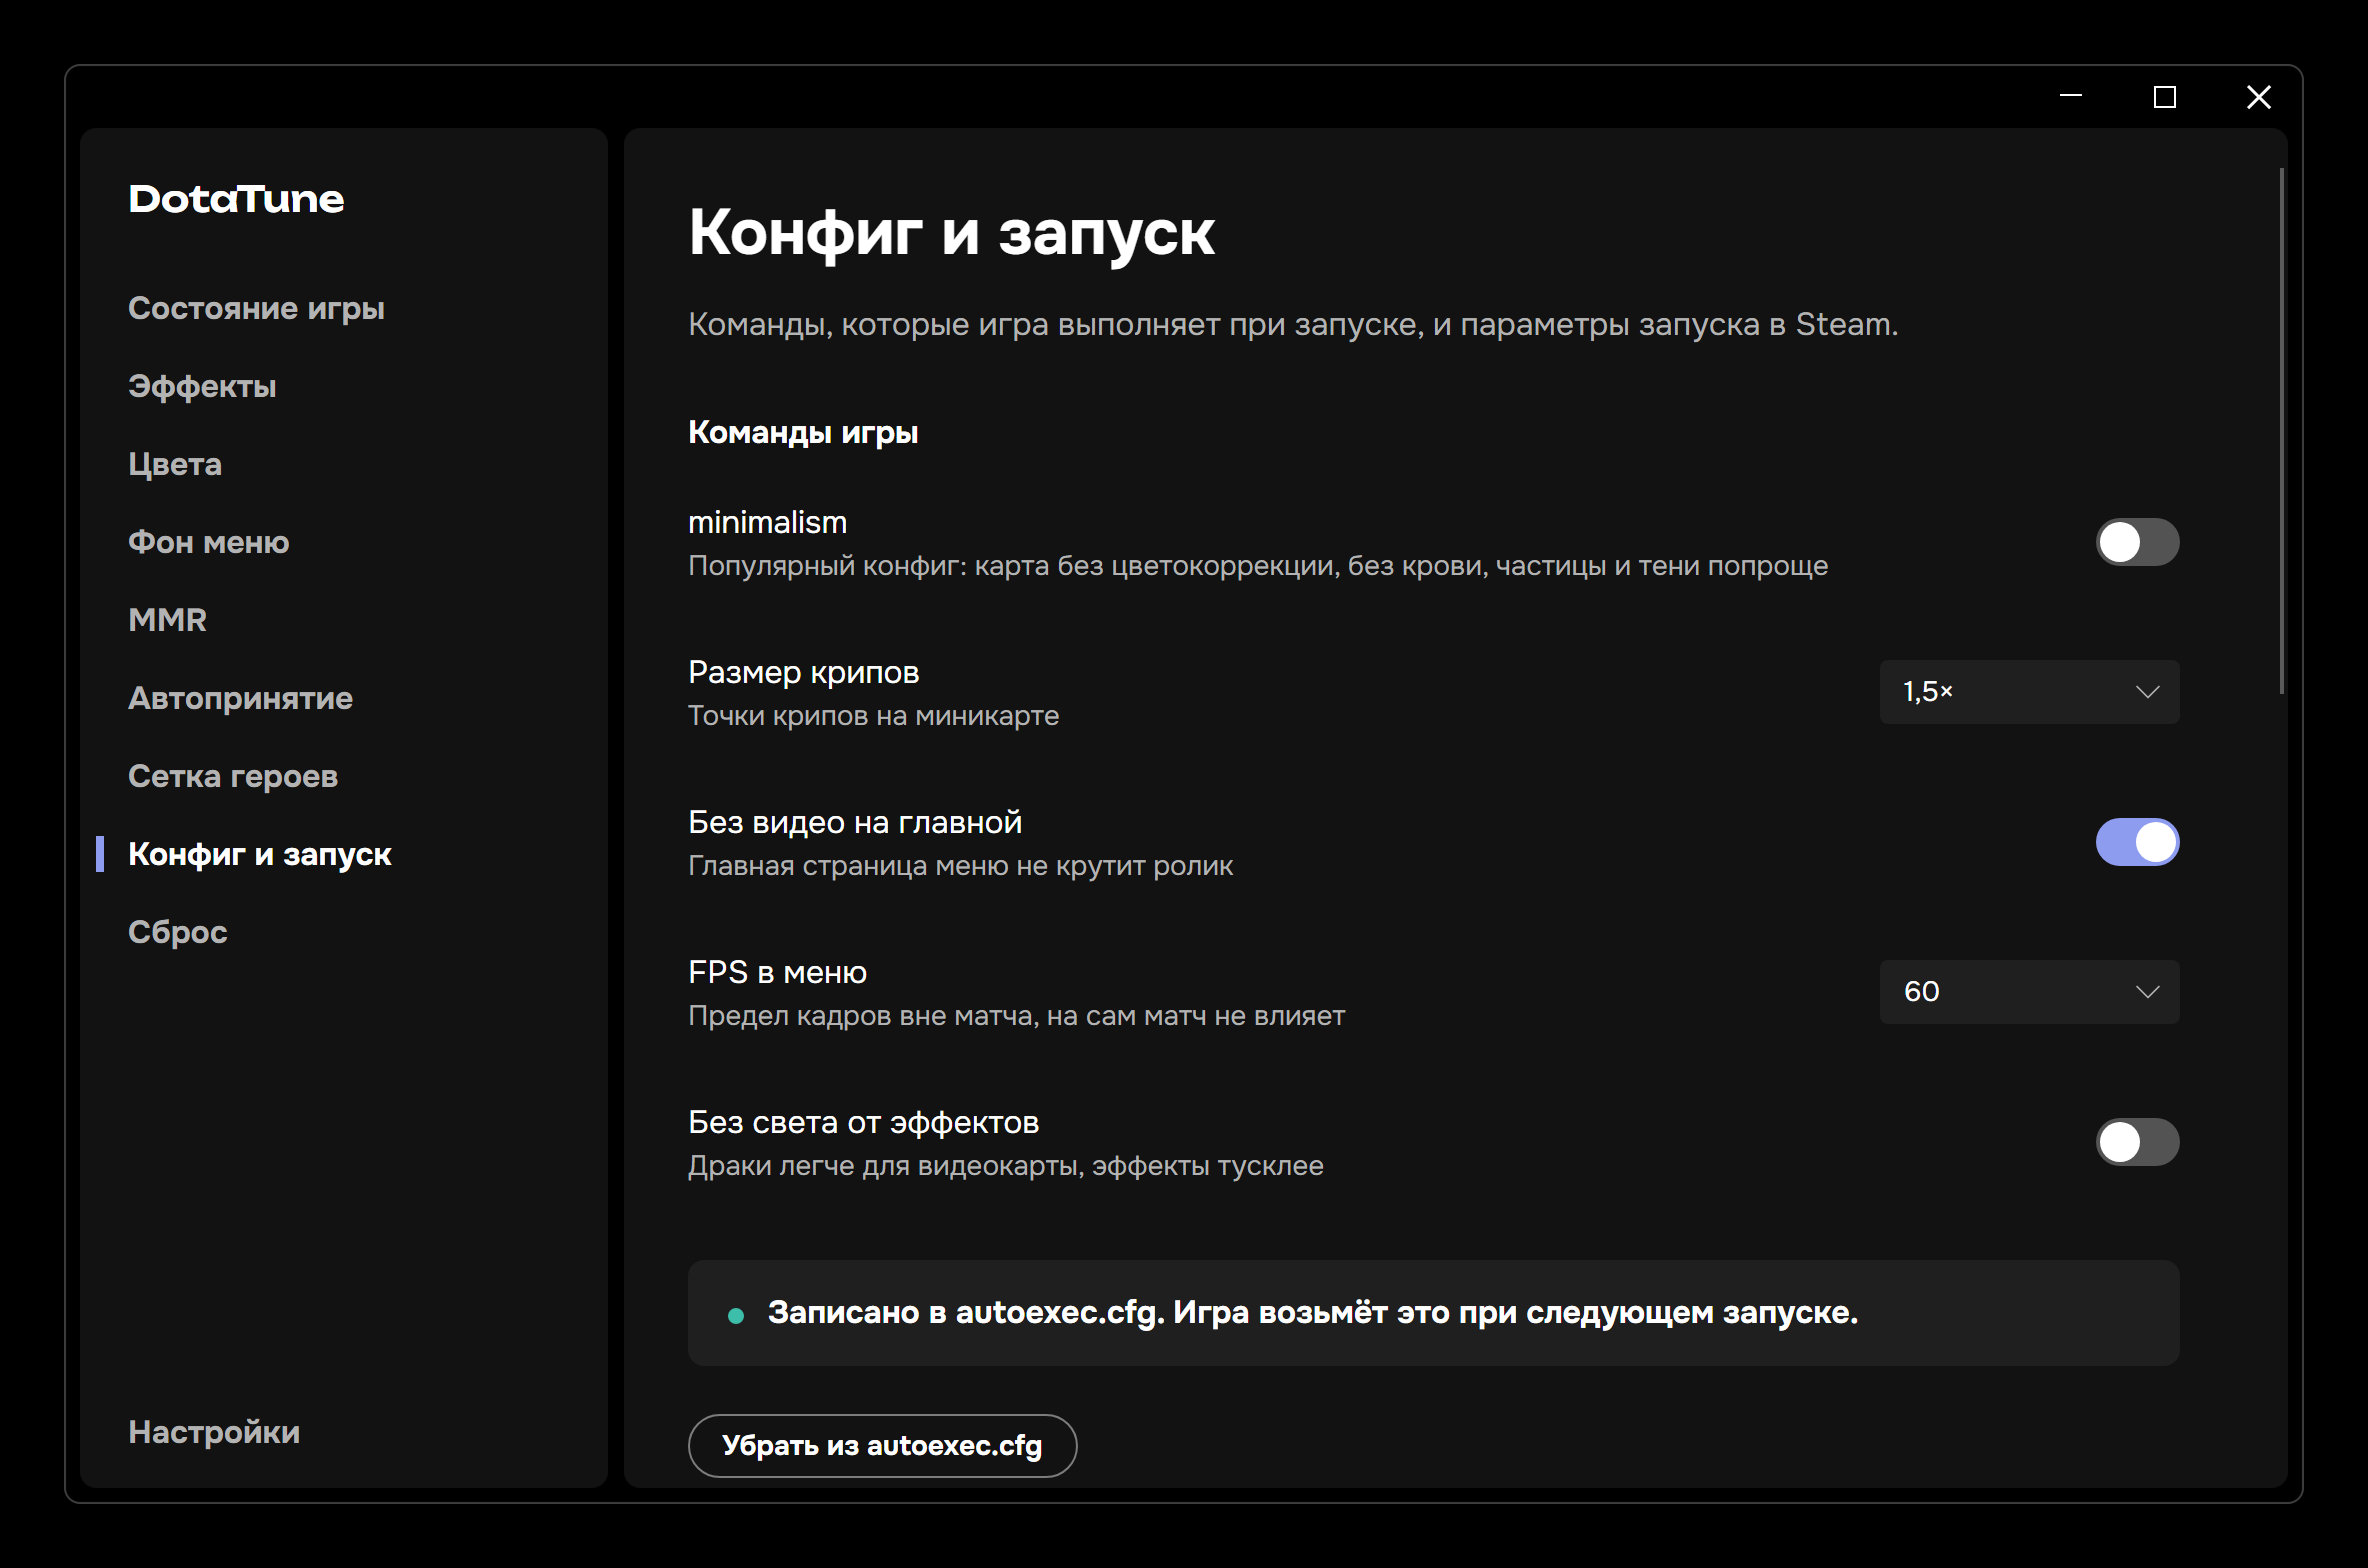
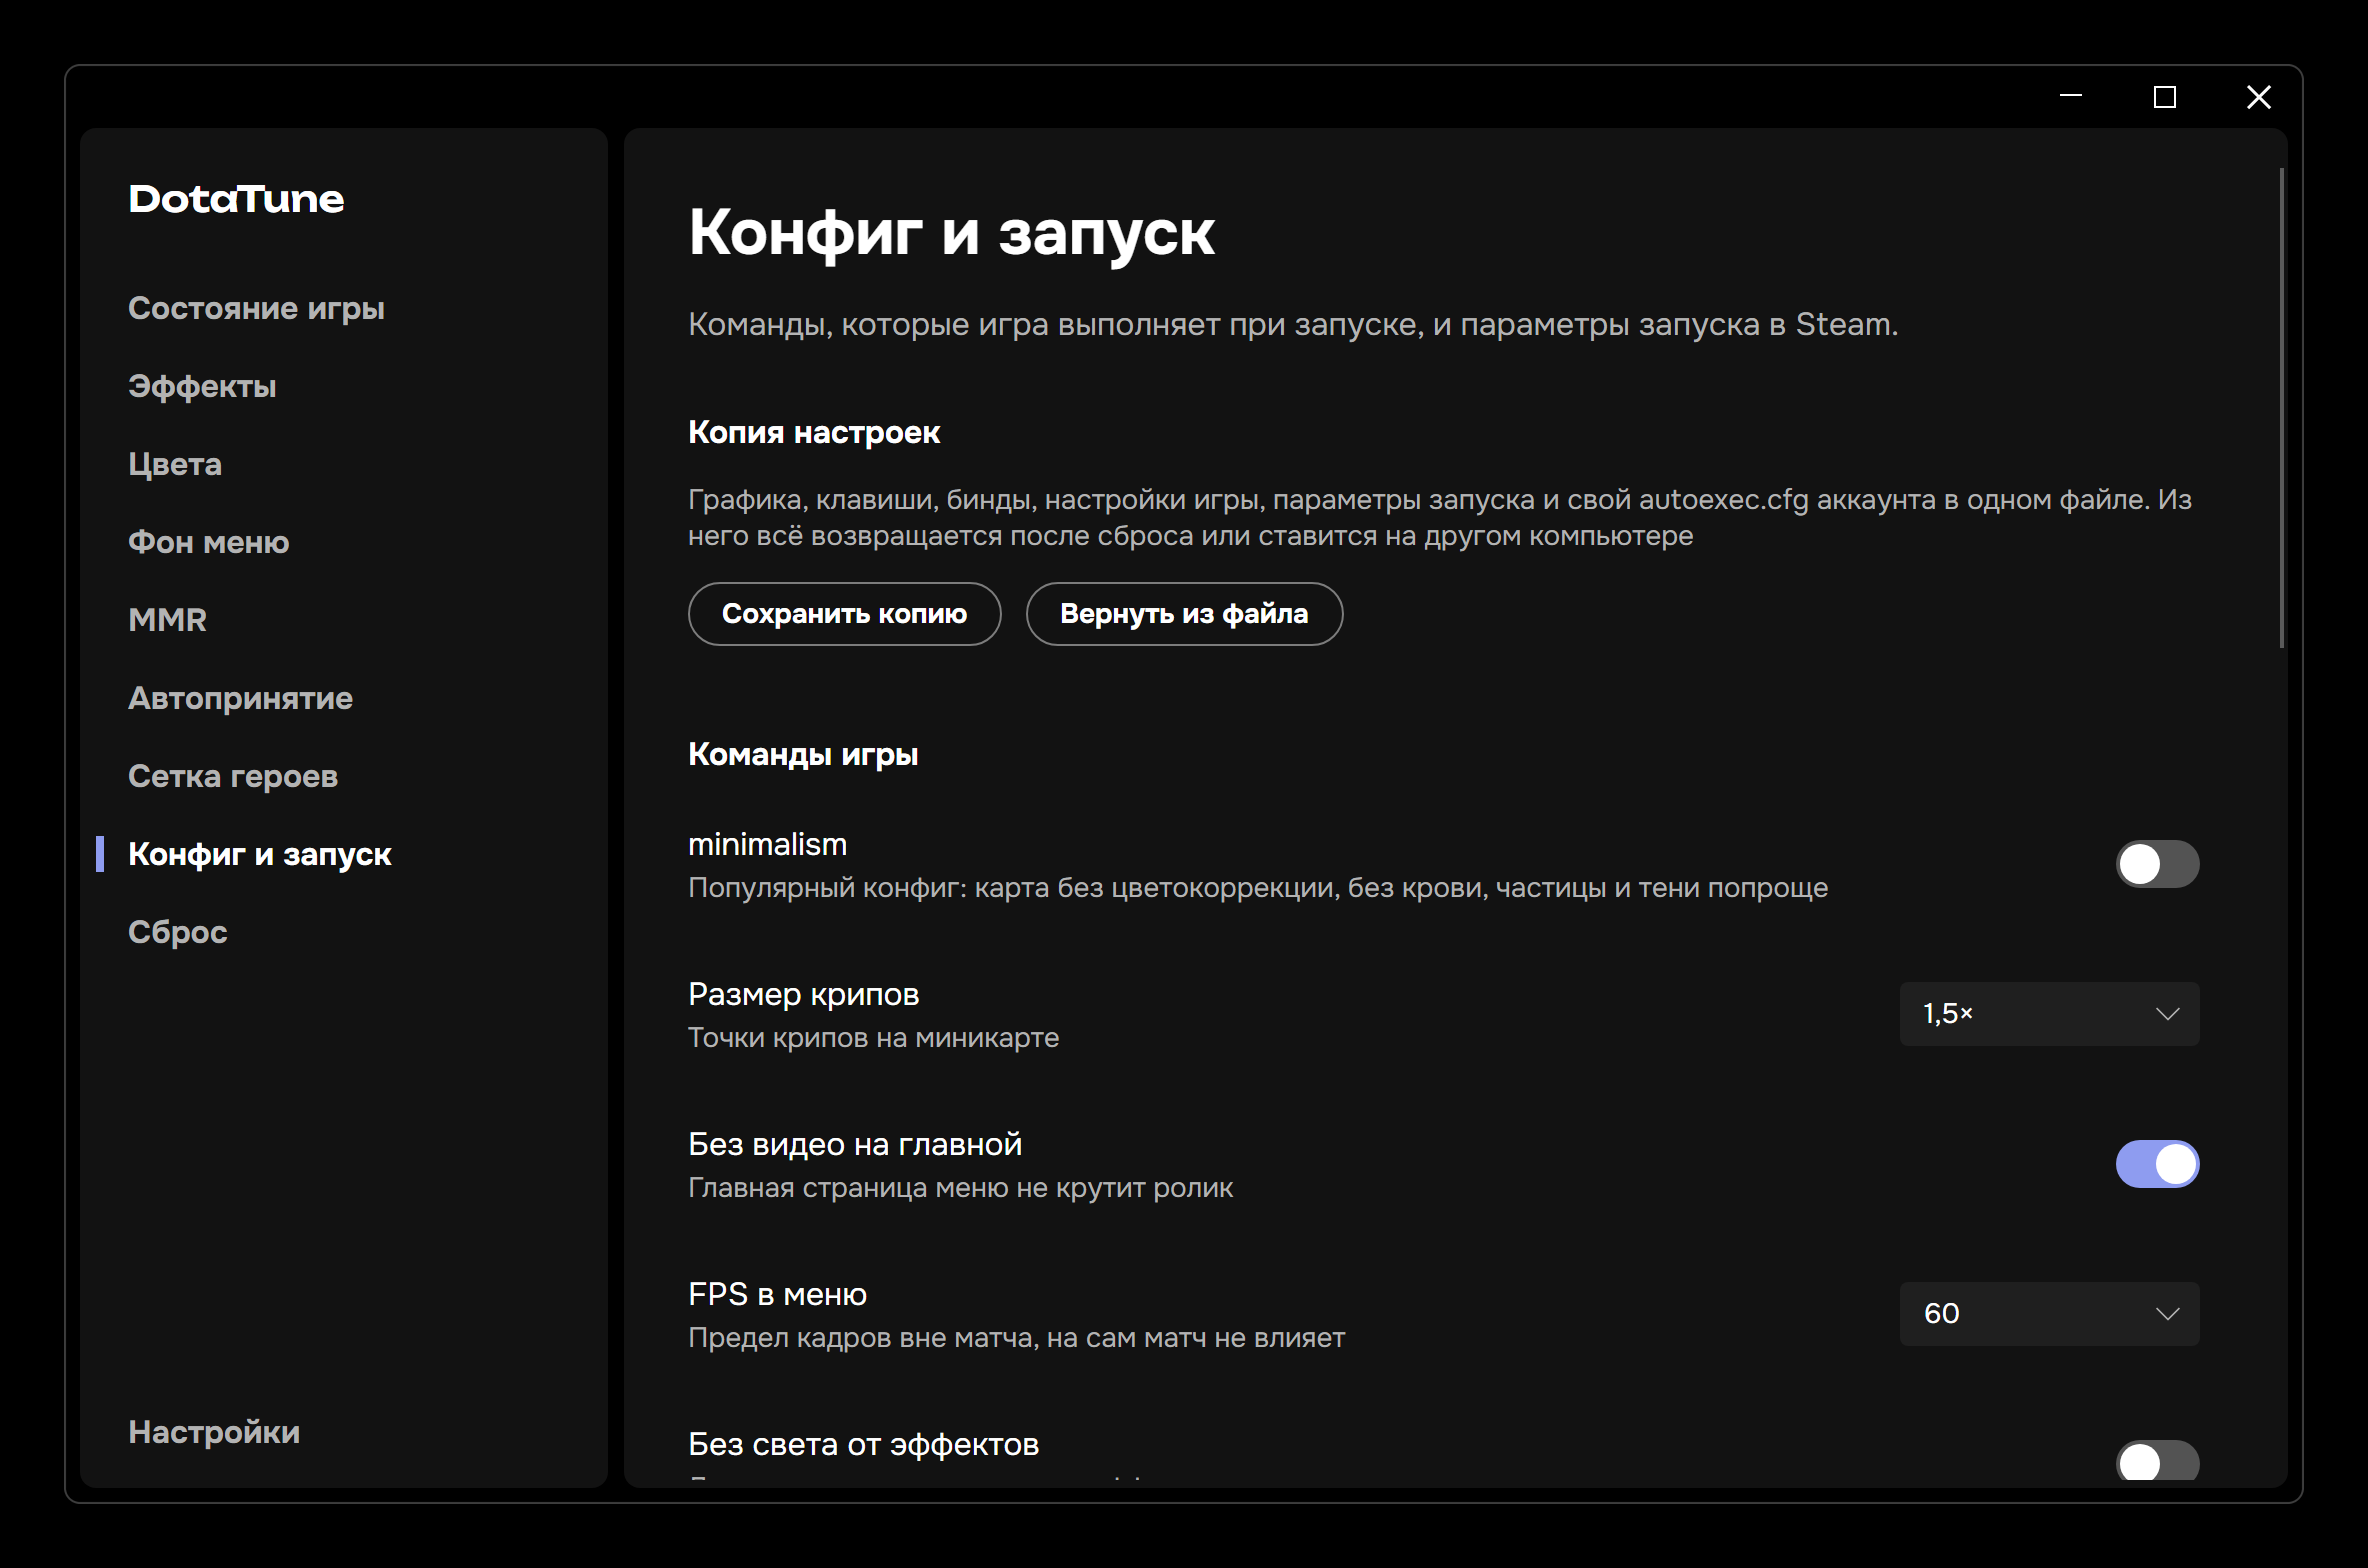
DotaTune 0.2.0
- копия своих настроек на странице «Конфиг и запуск»
- свой переключатель у каждой строки окна «Что поменяется» у наборов
- понятнее подсказка про облако Steam
- «Обновить» на «Состоянии игры» не двигает раскладку
- README и снимок страницы «Конфиг и запуск»

diff --git a/README.md b/README.md
@@ -8,7 +8,7 @@
 
 <a href="https://github.com/zxczxczxczxczxczxc1111/dotatune/releases/latest"><img src="assets/readme/download.svg" width="248" height="48" alt="Скачать для Windows"></a>
 
-<sub>Версия 0.1.0 для Windows 10 и 11 x64</sub>
+<sub>Версия 0.2.0 для Windows 10 и 11 x64</sub>
 
 <a href="#возможности">Возможности</a>&emsp;<a href="#экраны">Экраны</a>&emsp;<a href="#установка">Установка</a>&emsp;<a href="#справка">Справка</a>
 
@@ -20,7 +20,7 @@
 
 <p align="center"><sub>Данные на снимках демонстрационные</sub></p>
 
-DotaTune собирает из выбранных настроек свой пак и кладёт его к файлам игры, как это делают другие моды для Dota 2. В память игры и её exe программа не лезет. Остальное она пишет туда, где игра и Steam сами держат настройки: в `autoexec.cfg` и `boot.vcfg`, в параметры запуска, в файл сетки героев и, если переносишь настройки, в файлы аккаунта Steam. Страница «Сброс» убирает из игры всё, что поставил DotaTune.
+DotaTune собирает из выбранных настроек свой пак и кладёт его к файлам игры, как это делают другие моды для Dota 2. В память игры и её exe программа не лезет. Остальное она пишет туда, где игра и Steam сами держат настройки: в `autoexec.cfg` и `boot.vcfg`, в параметры запуска, в файл сетки героев и, если переносишь или возвращаешь настройки, в файлы аккаунта Steam. Страница «Сброс» убирает из игры всё, что поставил DotaTune.
 
 ## Возможности
 
@@ -44,6 +44,7 @@ DotaTune собирает из выбранных настроек свой па
 
 ### Конфиг и запуск
 
+- **Копия настроек**: графика, горячие клавиши, бинды, настройки игры, параметры запуска, свой `autoexec.cfg`, сетки и сборки в одном zip-файле. Возвращается одной кнопкой и по частям: после «Сброса», после неудачных правок или на другом компьютере
 - **Команды игры** в своём блоке `autoexec.cfg`: цвета и размер крипов на миникарте, FPS в меню, главная без видео, драки без света от эффектов и популярный конфиг minimalism
 - **Параметры запуска Steam**: `-novid`, `-nojoy` и `-condebug`, а заодно уборка параметров, которых в игре уже нет. Записать их можно только при закрытом Steam, поэтому программа предложит его перезапустить
 - **Перенос между аккаунтами**: горячие клавиши, настройки игры, бинды, сетки, сборки и графика с одного аккаунта Steam на другой
@@ -76,11 +77,11 @@ DotaTune собирает из выбранных настроек свой па
   </tr>
   <tr>
     <td width="50%"><a href="assets/readme/accept.webp"><img src="assets/readme/accept.webp" width="100%" alt="Страница «Автопринятие»: принятие включено, ползунок задержки на 5 секундах, автопринятие сработает через 5 секунд"></a></td>
-    <td width="50%"><a href="assets/readme/config.webp"><img src="assets/readme/config.webp" width="100%" alt="Страница «Конфиг и запуск»: размер крипов 1,5, главная без видео, FPS в меню 60, команды записаны в autoexec.cfg"></a></td>
+    <td width="50%"><a href="assets/readme/config.webp"><img src="assets/readme/config.webp" width="100%" alt="Страница «Конфиг и запуск»: блок «Копия настроек» с кнопками «Сохранить копию» и «Вернуть из файла», ниже команды игры: размер крипов 1,5, главная без видео, FPS в меню 60"></a></td>
   </tr>
   <tr>
     <td align="center"><b>Автопринятие</b><br><sub>Задержка от 1 до 15 секунд</sub></td>
-    <td align="center"><b>Конфиг и запуск</b><br><sub>Команды игры, параметры Steam, перенос и наборы</sub></td>
+    <td align="center"><b>Конфиг и запуск</b><br><sub>Копия настроек, команды игры, параметры Steam, перенос и наборы</sub></td>
   </tr>
 </table>
 
@@ -143,6 +144,7 @@ DotaTune собирает из выбранных настроек свой па
 | История MMR | `%AppData%\DotaTune\mmr.json` |
 | Свои картинки для фона меню | `%AppData%\DotaTune\menu-pictures` |
 | Копии файлов до переноса и до записи сеток | `%AppData%\DotaTune\transfer` и `%AppData%\DotaTune\herogrids` |
+| Копия до возврата своих настроек, для отмены | `%AppData%\DotaTune\before-restore.zip`, удаляется при следующем запуске программы |
 | Журналы | `%AppData%\DotaTune\logs` |
 
 К сообщению об ошибке приложи журнал. В нём пути к папкам, номера аккаунтов Steam и строки запуска, паролей там нет.

diff --git a/CHANGELOG.md b/CHANGELOG.md
@@ -3,6 +3,30 @@
 Формат по [Keep a Changelog](https://keepachangelog.com/ru/1.1.0/), версии по
 [SemVer](https://semver.org/lang/ru/).
 
+## [0.2.0] - 2026-10-27
+
+### Добавлено
+
+- «Конфиг и запуск»: копия своих настроек в одном файле. Графика, горячие клавиши,
+  бинды, настройки игры, параметры запуска, свой `autoexec.cfg`, сетки героев и
+  сборки сохраняются в zip, например на рабочий стол, и возвращаются одной
+  кнопкой по частям: после «Сброса», после неудачных правок или на другом
+  компьютере. Графика с другого компьютера по умолчанию не ставится. Последний
+  возврат можно отменить, пока программа открыта.
+
+### Изменено
+
+- В окне «Что поменяется» у наборов свой переключатель у каждой строки: эффекты,
+  конфиг и параметры запуска берутся по отдельности.
+- Подсказка про облако Steam после переноса, возврата и записи сеток: облако
+  выключать не нужно, а если Steam спросит, какие файлы оставить, нужны файлы
+  этого компьютера.
+
+### Исправлено
+
+- Кнопка «Обновить» на странице «Состояние игры» больше не двигает раскладку и не
+  гасит кнопки на время чтения.
+
 ## [0.1.0] - 2026-10-27
 
 Первый выпуск.
